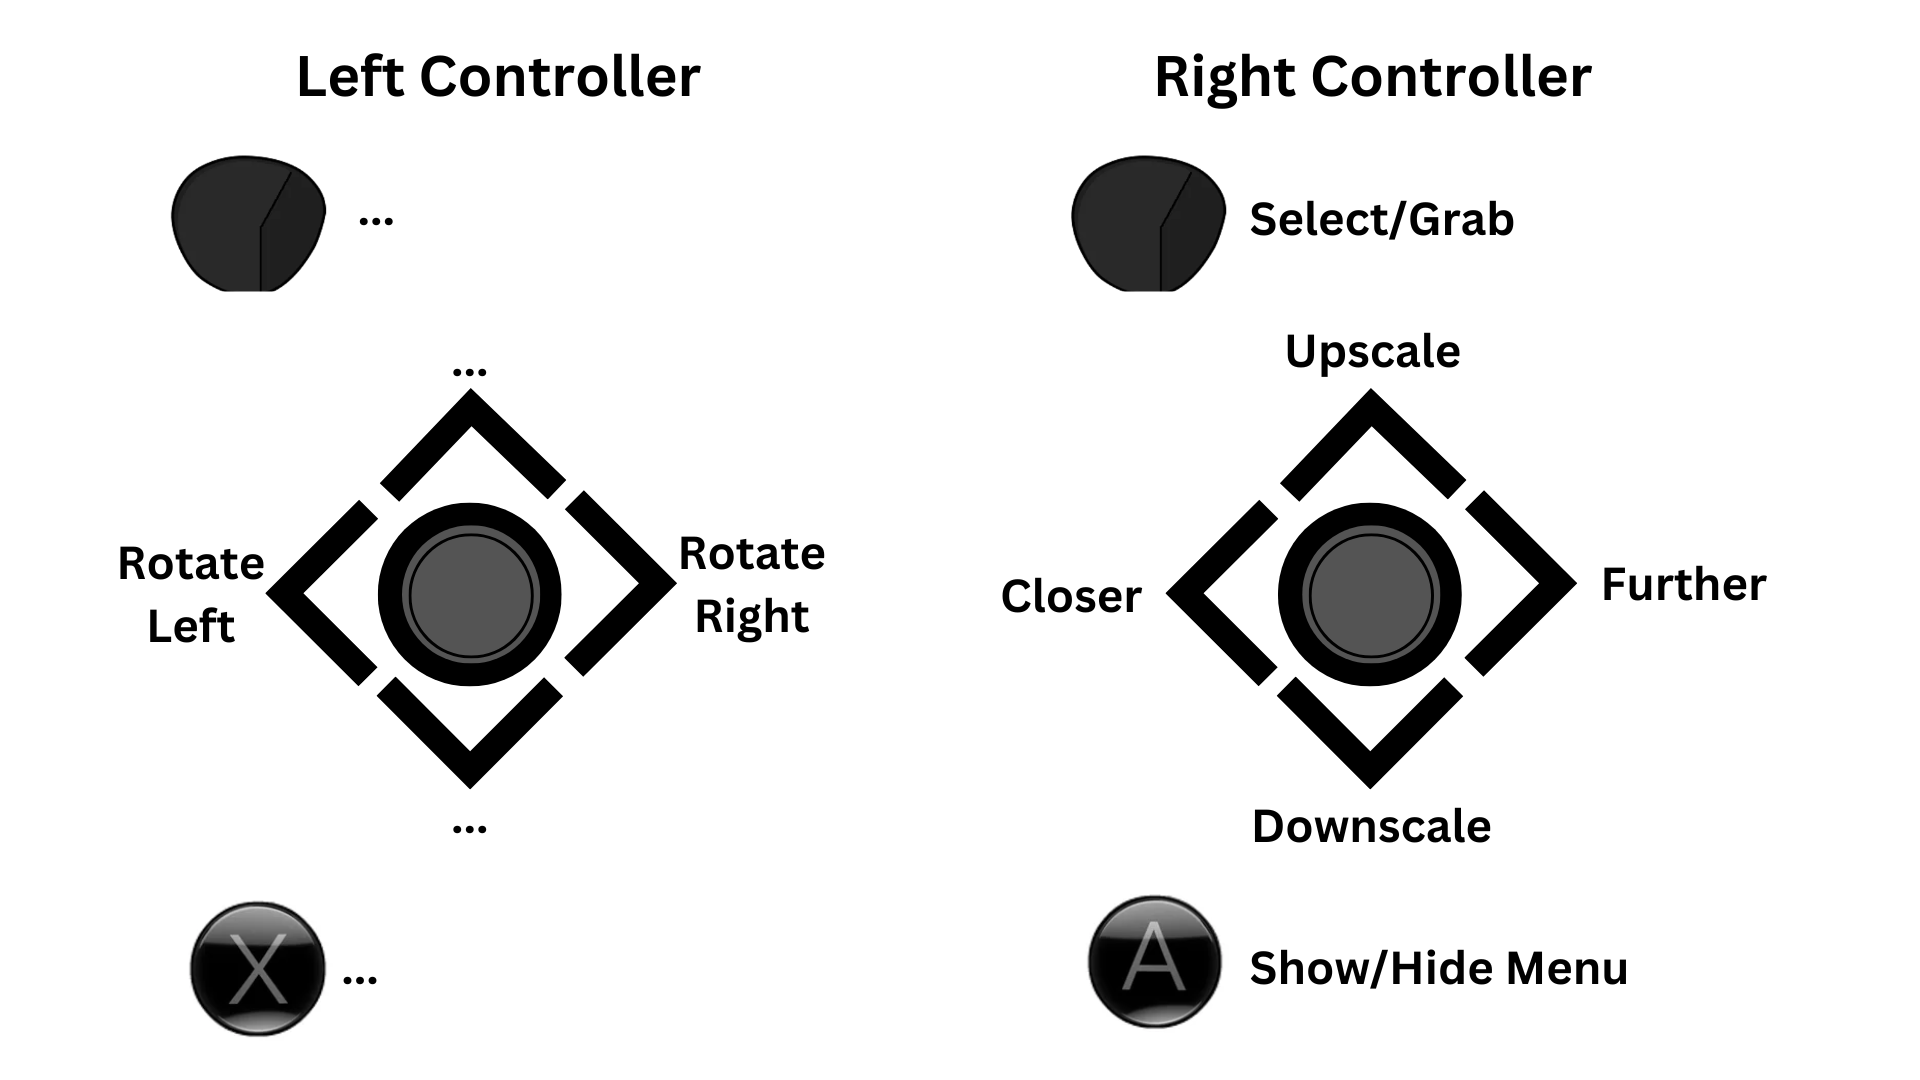
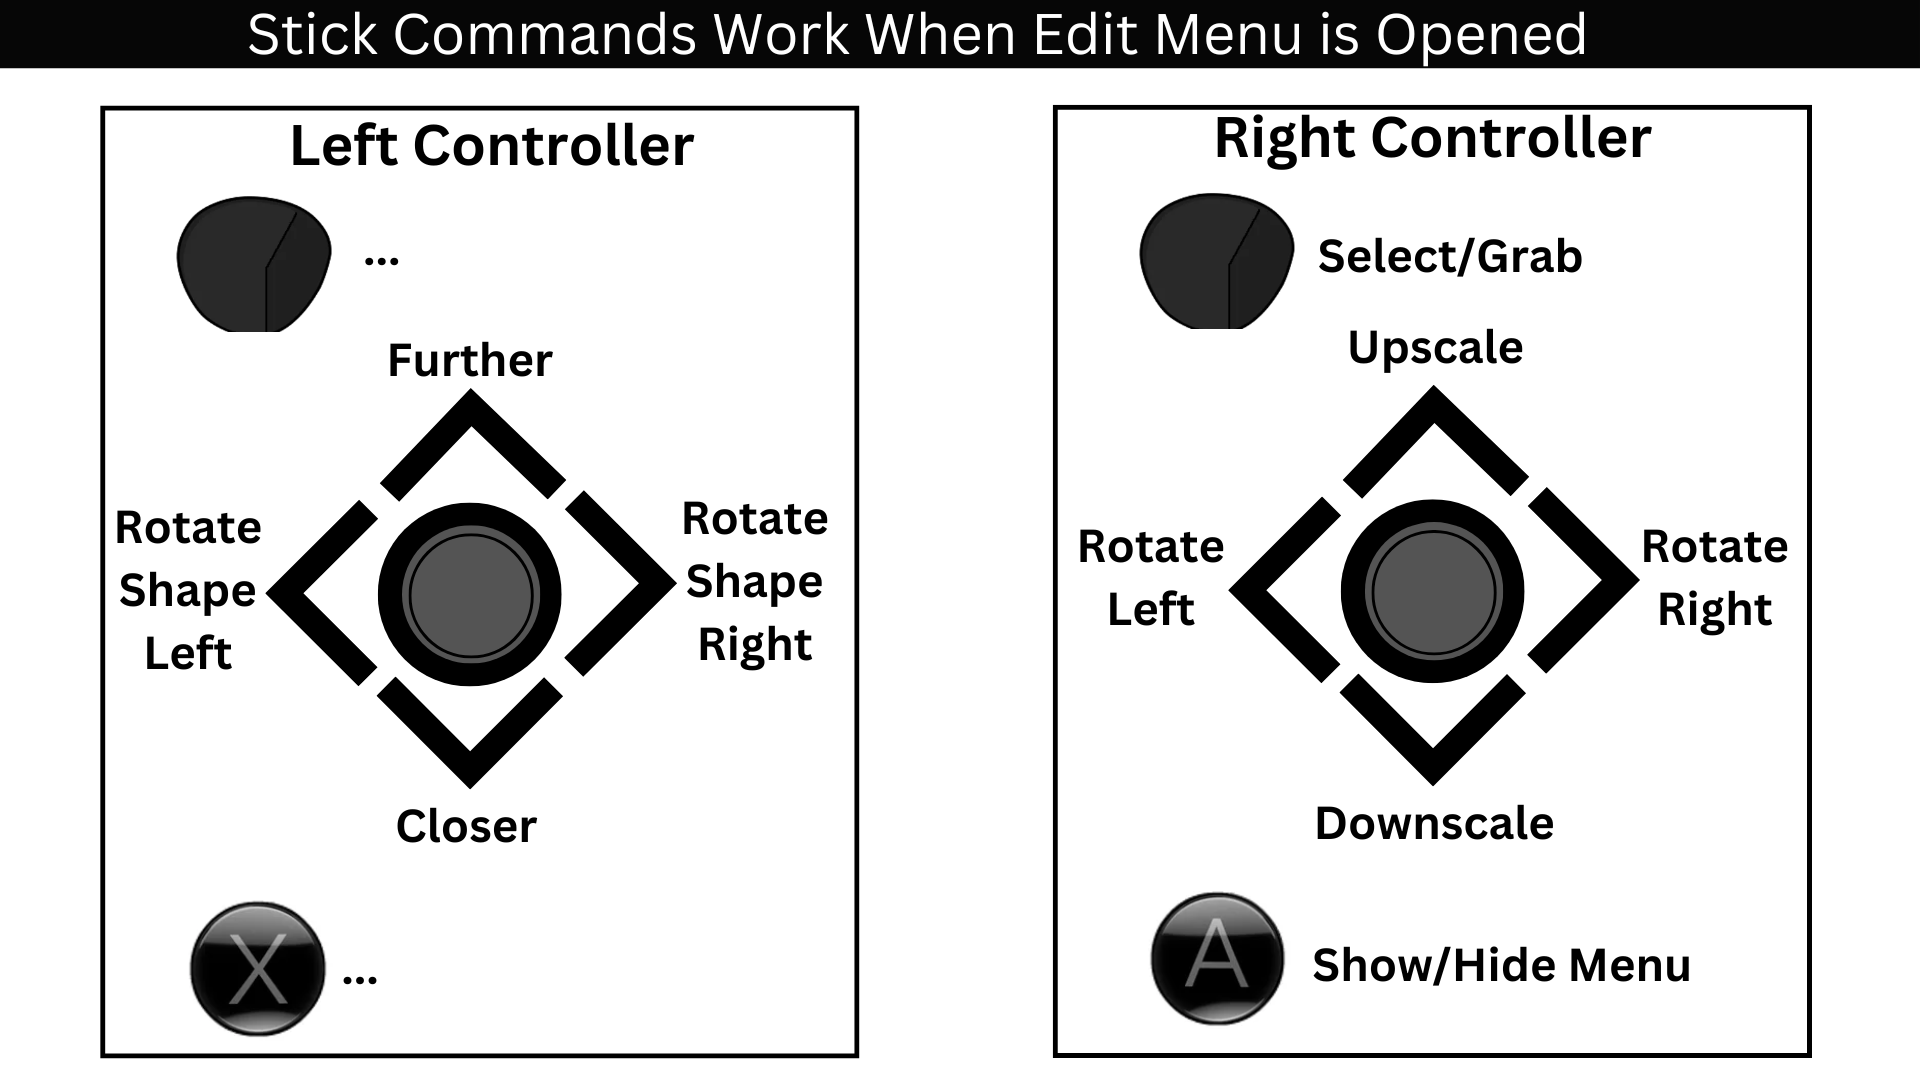
rotation added, controllers rebound, UIs fixed

diff --git a/Assets/Scripts/Blocks/BaseBlock.cs b/Assets/Scripts/Blocks/BaseBlock.cs
@@ -136,7 +136,6 @@ public abstract class BaseBlock : MonoBehaviour, IBlock
         }
     }
 
-    [ContextMenu("RotateLeft")]
     public void RotateLeft()
     {
         if (editMenu.activeInHierarchy)
@@ -146,7 +145,15 @@ public abstract class BaseBlock : MonoBehaviour, IBlock
         } 
     }
 
-    [ContextMenu("RotateRight")]
+    public void RotateAllLeft()
+    {
+        if (editMenu.activeInHierarchy)
+        {
+            transform.Rotate(rotationChangeLeft);
+
+        }
+    }
+
     public void RotateRight()
     {
         if (editMenu.activeInHierarchy)
@@ -155,6 +162,16 @@ public abstract class BaseBlock : MonoBehaviour, IBlock
 
         }
         
+    }
+
+    public void RotateAllRight()
+    {
+        if (editMenu.activeInHierarchy)
+        {
+            transform.Rotate(rotationChangeRight);
+
+        }
+
     }
 
     [ContextMenu("ToSphere")]

diff --git a/Assets/Scripts/Blocks/IBlock.cs b/Assets/Scripts/Blocks/IBlock.cs
@@ -12,6 +12,8 @@ public interface IBlock
     void Farther();
     void RotateLeft();
     void RotateRight();
+    void RotateAllLeft();
+    void RotateAllRight();
     void Setup();
     void ToSphere();
     void ToCube();
